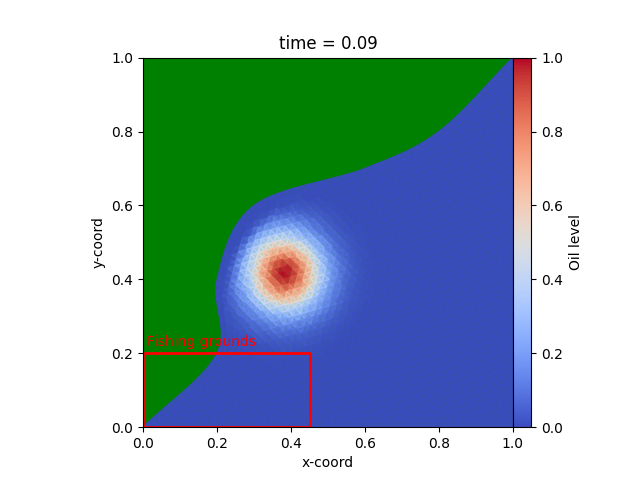
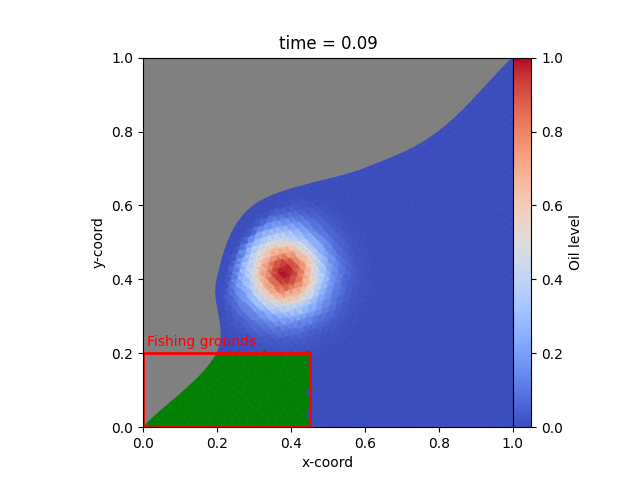
feat: added visual if fishing ground contains oil

Changed region(s): [[0.2188, 0.125, 0.8125, 0.9062]]

diff --git a/src/model/view/createImage.py b/src/model/view/createImage.py
@@ -37,7 +37,14 @@ class CreateImage():
         plt.colorbar(sm, cax=cbar_ax, label='Oil level')
 
         for triangle in self._triangles:  # add all the triangles into the plot
-            plt.gca().add_patch(
+            if triangle.get_in_fg() == True and triangle.get_oil_value() <0.01:
+                plt.gca().add_patch(
+                    plt.Polygon([point.get_coordinates()
+                                for point in triangle.get_corner_points()],
+                                color='green',
+                                alpha=0.9))
+            else:
+                 plt.gca().add_patch(
                 plt.Polygon([point.get_coordinates()
                              for point in triangle.get_corner_points()],
                             color=plt.cm.coolwarm((triangle.get_oil_value()
@@ -51,7 +58,7 @@ class CreateImage():
         plt.xlim(0, 1)  # set the x-axis limits
         plt.ylim(0, 1)  # set the y-axis limits
         plt.gca().set_aspect('equal')
-        plt.gca().set_facecolor('green')    # set land to green
+        plt.gca().set_facecolor('gray')    # set land to gray
 
         self._plot = plt    # save plot to be accessed later
 

diff --git a/src/model/cells/triangle.py b/src/model/cells/triangle.py
@@ -22,6 +22,7 @@ class Triangle(Cell):
         super().__init__(corner_points)
         self._type = "triangle"
         self._area = self.calculate_area()
+        self._in_fg = False
 
     def get_area(self):
         return self._area
@@ -88,3 +89,14 @@ class Triangle(Cell):
             (p2, p3),
             (p3, p1),
         ]
+    
+    def get_in_fg(self):
+        """
+        Check if this triangle is in the fishing grounds
+        """
+        return self._in_fg
+    
+    def calculate_in_fg(self, fg):
+        x_mid, y_mid = self.get_midpoint()
+        if fg[0][0] < x_mid < fg[0][1] and fg[1][0] < y_mid < fg[1][1]:
+            self._in_fg = True
